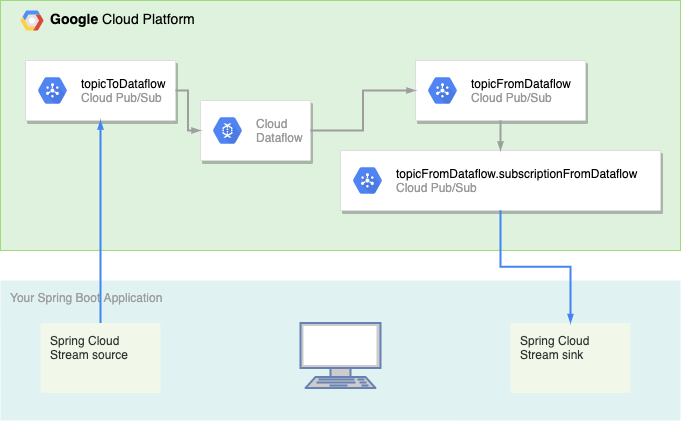
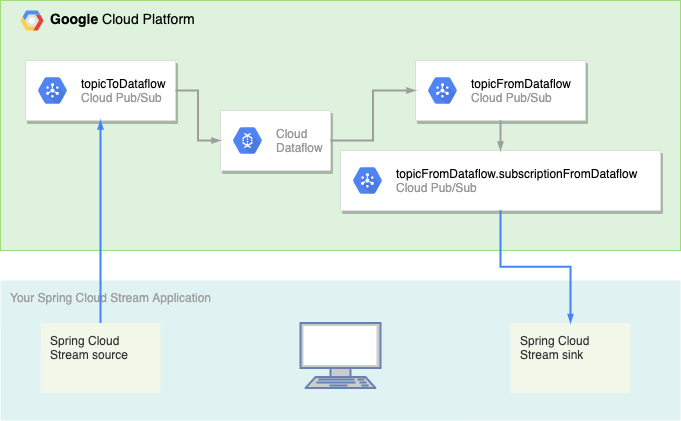
update png & mention ack

Changed region(s): [[0.2775, 0.2162, 0.5551, 0.4323], [0.1233, 0.6793, 0.3084, 0.7411]]

diff --git a/tutorials/pubsub-spring-dedup-messages/index.md b/tutorials/pubsub-spring-dedup-messages/index.md
@@ -12,7 +12,7 @@ Tianzi Cai | Developer Programs Engineer | Google Cloud
 
 This tutorial demonstrates how to use Pub/Sub and Dataflow to deduplicate messages in a Spring Cloud Stream application.
 
-Many enterprise-level Java applications with distributed systems on the backend are built with [Spring Boot] and [Spring Cloud]. [Spring Cloud GCP] are libraries that enable Spring Boot and Spring Cloud Stream applications to use GCP managed services such as [Pub/Sub] for added scalability and separation of concern. 
+Many enterprise-level Java applications with distributed systems on the backend are built with [Spring Boot] and [Spring Cloud]. [Spring Cloud GCP] are libraries that enable Spring Boot and Spring Cloud Stream applications to use GCP managed services such as [Pub/Sub] for added scalability and separation of concerns. 
 
 [Pub/Sub] and [Dataflow] together can meet many different stream processing needs. In this tutorial, you will learn how to set up a simple Dataflow pipeline to deduplicate data out of a Spring Cloud Stream application before sending it back via Pub/Sub. The same setup also applies to more complex and demanding stream processing needs.
 
@@ -197,6 +197,8 @@ spring.cloud.stream.bindings.receiveDedupedMessagesFromDataflow-in-0.destination
 spring.cloud.stream.bindings.receiveDedupedMessagesFromDataflow-in-0.group=subscriptionFromDataflow
 ```
 
+Pub/Sub messages received by your application are automatically acknowledged in this setup. Acknowledged messages are no longer be retained in the subscription.
+
 ### Construct a Pub/Sub message with custom attributes
 
 Pub/Sub lets you publish messages with custom attributes, which are key value pairs. To construct a message with custom attributes in your application, you can specify the attributes as headers. 
@@ -220,7 +222,7 @@ In [DataEntryController.java](pubsub-spring-cloud-stream/src/main/java/com/googl
     ```
 1. Point your browser to `localhost:8080`.
 1. Send a message using the form. 
-1. View Publish Message Request Count and Publish Message Operation Count in the topic details for `TopicToDataflow` in [Cloud Console for Pub/Sub Topic] to verify that publishing to Pub/Sub is successful. 
+1. View Publish Message Request Count and Publish Message Operation Count in the topic details for `TopicToDataflow` in the [Cloud Console for Pub/Sub Topic] to verify that publishing to Pub/Sub is successful. 
 
 ## Create a Dataflow Pipeline to Deduplicate Pub/Sub Messages
 
@@ -263,11 +265,11 @@ Publish a few more messages of different keys via the web host and observe messa
 
 ![results](results.png)
 
-Here, "Message 2", "Message 3", and "Message 4" have the same key "456", so only the first of them "Message 2" has been allowed to pass through the entire pipeline and arrived in the Spring Cloud Stream sink.
+Here, "Message 2", "Message 3", and "Message 4" have the same key "456", so only the first of them "Message 2" has passed through the pipeline and arrived in your application.
 
 ## Cleanup
 1. Use `Ctrl+C` to stop the Spring Boot application and the Dataflow.
-1. In the [Cloud Console for Dataflow], select the Dataflow job and stop it. Cancel the pipeline instead of draining it. Dataflow will automatically delete the subscription to the topic `topicFromDataflow` during this process.
+1. In the [Cloud Console for Dataflow], select the Dataflow job and stop it. Cancel the pipeline instead of draining it. Dataflow will automatically delete the subscription to the topic `topicFromDataflow` during this process. Your subscription name should look similar to `topicToDataflow.subscription-8732360904945383579` with a different alphanumeric string at the end.
 1. Delete the subscription followed by the topics in the [Cloud Console for Pub/Sub] or via the command line.
 ```shell script
 gcloud pubsub subscriptions delete topicFromDataflow.subscriptionFromDataflow
